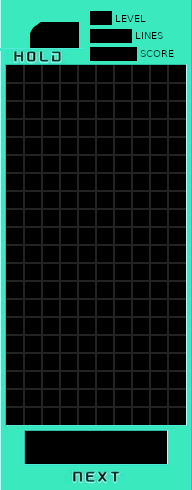
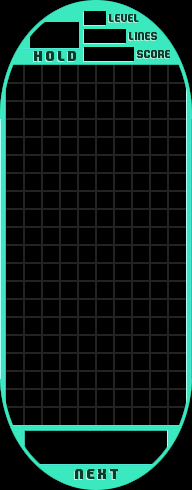
Add new background and hold disabled indicator

Changed region(s): [[0.0, 0.7653, 1.0, 1.0], [0.0, 0.0, 0.4688, 0.2449], [0.5312, 0.0, 1.0, 0.2449]]

diff --git a/watchface/index.js b/watchface/index.js
@@ -116,11 +116,21 @@ try {
                     show_level: hmUI.show_level.ONLY_NORMAL
                 })
 
+
                 // hold piece
                 const holdPieceWidget = hmUI.createWidget(hmUI.widget.IMG, {
                     x: 35,
                     y: 25,
                     visible: false,
+                    show_level: hmUI.show_level.ONLY_NORMAL
+                })
+
+                // Hold disabled
+                const holdDisabled = hmUI.createWidget(hmUI.widget.IMG, {
+                    x: 33,
+                    y: 51,
+                    src: 'hold_disabled.png',
+                    visibility: false,
                     show_level: hmUI.show_level.ONLY_NORMAL
                 })
 
@@ -161,7 +171,7 @@ try {
                 }))
 
                 const levelWidget = hmUI.createWidget(hmUI.widget.TEXT, {
-                    x: 93,
+                    x: 86,
                     y: 13,
                     w: 20,
                     h: 12,
@@ -174,7 +184,7 @@ try {
                 })
 
                 const linesCountWidget = hmUI.createWidget(hmUI.widget.TEXT, {
-                    x: 93,
+                    x: 86,
                     y: 31,
                     w: 39,
                     h: 12,
@@ -187,7 +197,7 @@ try {
                 })
 
                 const scoreWidget = hmUI.createWidget(hmUI.widget.TEXT, {
-                    x: 93,
+                    x: 86,
                     y: 49,
                     w: 45,
                     h: 12,
@@ -252,7 +262,10 @@ try {
                     if (holdPiece) {
                         currentAndNextPieces[0] = holdPiece
                     } else {
-                        holdUsed = false
+                        if (holdUsed) {
+                            holdUsed = false
+                            refreshHoldPiece()
+                        }
 
                         // try to generate new random piece that is not same of the last 4
                         const newPiece = generateNewRandomPiece()
@@ -444,6 +457,12 @@ try {
                         holdPieceWidget.setProperty(hmUI.prop.VISIBLE, true)
                     } else {
                         holdPieceWidget.setProperty(hmUI.prop.VISIBLE, false)
+                    }
+
+                    if (holdUsed) {
+                        holdDisabled.setProperty(hmUI.prop.VISIBLE, true)
+                    } else {
+                        holdDisabled.setProperty(hmUI.prop.VISIBLE, false)
                     }
                 }
 
